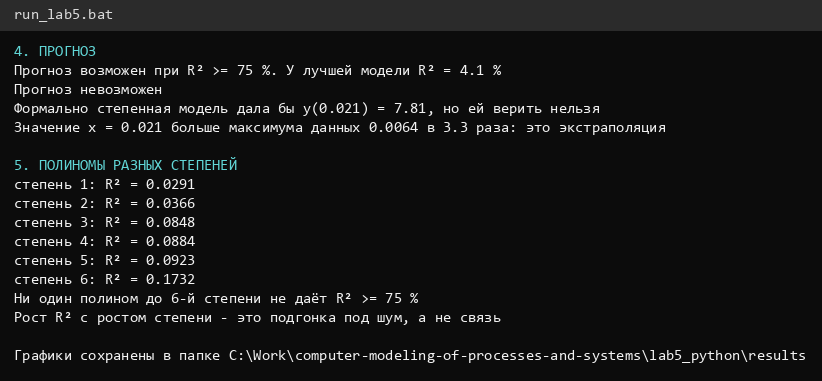
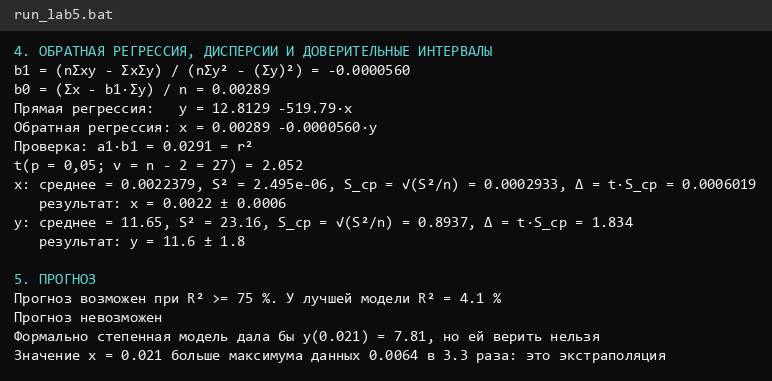
fix(labs4-5): follow manual for closeness scale, log R2 and inverse regression
- closeness of r by table 4 of the manual (0.3 / 0.5 / 0.7)
- lab 4: R2 of power and exponential models on ln y, as the manual and Excel do
- inverse regression, variances and Student confidence intervals with a plot
- hyperbola added to the nonlinear regression search

diff --git a/lab4_python/lab4.py b/lab4_python/lab4.py
@@ -47,26 +47,32 @@ models = {
 }
 r2 = {}
 for name, (equation, f) in models.items():
-    r2[name] = np.corrcoef(y, f(x))[0, 1] ** 2
+    if name in ("Степенная", "Экспоненциальная"):
+        r2[name] = np.corrcoef(np.log(y), np.log(f(x)))[0, 1] ** 2
+    else:
+        r2[name] = np.corrcoef(y, f(x))[0, 1] ** 2
     print(f"{name:17} {equation:38} R² = {r2[name]:.4f}")
+print("Для степенной и экспоненциальной моделей R² считается по ln y (как в методичке и в Excel)")
 best = max(r2, key=r2.get)
 print(f"Лучшая модель: {best}, R² = {r2[best]:.4f} ({r2[best] * 100:.1f} %)")
 
 print("\n3. ТЕСНОТА СВЯЗИ И СТАТИСТИЧЕСКАЯ ОЦЕНКА ЛИНЕЙНОЙ МОДЕЛИ")
 if abs(r) < 0.3:
+    closeness = "практически отсутствует"
+elif abs(r) < 0.5:
     closeness = "слабая"
 elif abs(r) < 0.7:
     closeness = "умеренная"
 else:
     closeness = "сильная"
+direction = "прямая" if r > 0 else "обратная"
+print(f"r = {r:.4f}: связь вероятностная, {direction}; теснота связи - {closeness} (таблица 4 методички)")
 R2 = r ** 2
 R2_adj = 1 - (1 - R2) * (n - 1) / (n - 2)
 F = R2 / (1 - R2) * (n - 2)
 F_critical = stats.f.ppf(0.95, 1, n - 2)
 p_value = stats.f.sf(F, 1, n - 2)
 std_error = np.sqrt(((y - (a0 + a1 * x)) ** 2).sum() / (n - 2))
-direction = "положительная" if r > 0 else "отрицательная"
-print(f"r = {r:.4f}: связь {closeness}, {direction}")
 print(f"R² = {R2:.4f}, скорректированный R² = {R2_adj:.4f}, стандартная ошибка = {std_error:.3f}")
 print(f"F = {F:.3f}, критическое F(0,05; 1; {n - 2}) = {F_critical:.3f}, p = {p_value:.4f}")
 if F > F_critical:
@@ -78,7 +84,29 @@ others = np.arange(n) != i_max
 r2_without = np.corrcoef(x[others], y[others])[0, 1] ** 2
 print(f"Без точки с наибольшим y ({y[i_max]} при x = {x[i_max]}): R² = {r2_without:.4f}")
 
-print("\n4. ПРОГНОЗ")
+print("\n4. ОБРАТНАЯ РЕГРЕССИЯ, ДИСПЕРСИИ И ДОВЕРИТЕЛЬНЫЕ ИНТЕРВАЛЫ")
+b1 = (n * sum_xy - sum_x * sum_y) / (n * sum_y2 - sum_y ** 2)
+b0 = (sum_x - b1 * sum_y) / n
+print(f"b1 = (nΣxy - ΣxΣy) / (nΣy² - (Σy)²) = {b1:.5f}")
+print(f"b0 = (Σx - b1·Σy) / n = {b0:.4f}")
+print(f"Прямая регрессия:   y = {a0:.4f} + {a1:.4f}·x")
+print(f"Обратная регрессия: x = {b0:.4f} + {b1:.5f}·y")
+print(f"Проверка: a1·b1 = {a1 * b1:.4f} = r²")
+t_student = stats.t.ppf(1 - 0.05 / 2, n - 2)
+print(f"t(p = 0,05; ν = n - 2 = {n - 2}) = {t_student:.3f}")
+intervals = {}
+for name, values in (("x", x), ("y", y)):
+    mean = values.mean()
+    S2 = ((values ** 2).sum() - values.sum() ** 2 / n) / (n - 1)
+    S_mean = np.sqrt(S2 / n)
+    delta = t_student * S_mean
+    digits = 2 if int(f"{delta:e}"[0]) <= 3 else 1
+    decimals = digits - 1 - int(np.floor(np.log10(delta)))
+    intervals[name] = (mean, S2, S_mean, delta, f"{mean:.{decimals}f} ± {delta:.{decimals}f}")
+    print(f"{name}: среднее = {mean:.4f}, S² = {S2:.6g}, S_ср = √(S²/n) = {S_mean:.4g}, Δ = t·S_ср = {delta:.4g}")
+    print(f"   результат: {name} = {intervals[name][4]}")
+
+print("\n5. ПРОГНОЗ")
 y_best = models[best][1](x_forecast)
 print(f"Прогноз возможен при R² >= 75 %. У лучшей модели R² = {r2[best] * 100:.1f} %")
 if r2[best] >= 0.75:
@@ -88,15 +116,20 @@ else:
     print(f"Формально {best.lower()} модель дала бы y({x_forecast}) = {y_best:.2f}, но ей верить нельзя")
 print(f"Значение x = {x_forecast} вне диапазона данных [{x.min()}; {x.max()}]: это экстраполяция")
 
-print("\n5. ПОЛИНОМЫ РАЗНЫХ СТЕПЕНЕЙ")
+print("\n6. ПОДБОР НЕЛИНЕЙНОЙ РЕГРЕССИИ С R² >= 75 %")
+z = 1 / x
+h1 = (n * (z * y).sum() - z.sum() * sum_y) / (n * (z ** 2).sum() - z.sum() ** 2)
+h0 = (sum_y - h1 * z.sum()) / n
+r2_hyper = np.corrcoef(y, h0 + h1 * z)[0, 1] ** 2
+print(f"Гипербола (z = 1/x): y = {h0:.3f} {h1:+.4f}/x, R² = {r2_hyper:.4f}")
 degrees = [1, 2, 3, 4, 5, 6]
 r2_poly = []
 for d in degrees:
     c = np.polyfit(x, y, d)
     r2_poly.append(np.corrcoef(y, np.polyval(c, x))[0, 1] ** 2)
-    print(f"степень {d}: R² = {r2_poly[-1]:.4f}")
-if max(r2_poly) < 0.75:
-    print("Ни один полином до 6-й степени не даёт R² >= 75 %")
+    print(f"полином степени {d}: R² = {r2_poly[-1]:.4f}")
+if max(r2_poly + [r2_hyper]) < 0.75:
+    print("Ни гипербола, ни полиномы до 6-й степени не дают R² >= 75 %")
     print("Рост R² с ростом степени - это подгонка под шум, а не связь")
 
 grid = np.linspace(x.min(), x.max(), 200)
@@ -131,5 +164,20 @@ plt.legend()
 plt.grid(alpha=0.3)
 fig.tight_layout()
 fig.savefig(folder / "02_poly_degree.png", dpi=150)
+plt.close(fig)
+
+y_grid = np.linspace(y.min(), y.max(), 200)
+fig = plt.figure(figsize=(7, 4.5))
+plt.scatter(x, y, color="black", s=14, label="эксперимент")
+plt.plot(grid, a0 + a1 * grid, color="red", label=f"прямая: y = {a0:.3f} + {a1:.3f}·x")
+plt.plot(b0 + b1 * y_grid, y_grid, color="blue", label=f"обратная: x = {b0:.4f} + {b1:.5f}·y")
+plt.scatter([x.mean()], [y.mean()], color="green", s=50, zorder=3, label="точка средних")
+plt.xlabel("Sr_воды, мг/л")
+plt.ylabel("Sr_волосы, мкг/г")
+plt.title("Прямая и обратная регрессия")
+plt.legend(fontsize=8)
+plt.grid(alpha=0.3)
+fig.tight_layout()
+fig.savefig(folder / "03_regression_lines.png", dpi=150)
 plt.close(fig)
 print(f"\nГрафики сохранены в папке {folder}")

diff --git a/lab5_python/lab5.py b/lab5_python/lab5.py
@@ -61,13 +61,15 @@ print(f"Лучшая модель: {best}, R² = {r2[best]:.4f} ({r2[best] * 100
 
 print("\n3. ТЕСНОТА СВЯЗИ И ЗНАЧИМОСТЬ ЛИНЕЙНОЙ МОДЕЛИ")
 if abs(r) < 0.3:
+    closeness = "практически отсутствует"
+elif abs(r) < 0.5:
     closeness = "слабая"
 elif abs(r) < 0.7:
     closeness = "умеренная"
 else:
     closeness = "сильная"
-direction = "положительная" if r > 0 else "отрицательная"
-print(f"r = {r:.4f}: связь {closeness}, {direction}")
+direction = "прямая" if r > 0 else "обратная"
+print(f"r = {r:.4f}: связь вероятностная, {direction}; теснота связи - {closeness} (таблица 4 методички)")
 F_linear = r ** 2 / (1 - r ** 2) * (n - 2)
 F_critical = stats.f.ppf(0.95, 1, n - 2)
 print(f"F = {F_linear:.3f}, критическое F(0,05; 1; {n - 2}) = {F_critical:.3f}")
@@ -80,7 +82,29 @@ others = np.arange(n) != i_max
 r2_without = np.corrcoef(x[others], y[others])[0, 1] ** 2
 print(f"Без точки с наибольшим y ({y[i_max]} при x = {x[i_max]}): R² = {r2_without:.4f}")
 
-print("\n4. ПРОГНОЗ")
+print("\n4. ОБРАТНАЯ РЕГРЕССИЯ, ДИСПЕРСИИ И ДОВЕРИТЕЛЬНЫЕ ИНТЕРВАЛЫ")
+b1 = (n * sum_xy - sum_x * sum_y) / (n * sum_y2 - sum_y ** 2)
+b0 = (sum_x - b1 * sum_y) / n
+print(f"b1 = (nΣxy - ΣxΣy) / (nΣy² - (Σy)²) = {b1:.7f}")
+print(f"b0 = (Σx - b1·Σy) / n = {b0:.5f}")
+print(f"Прямая регрессия:   y = {a0:.4f} {a1:+.2f}·x")
+print(f"Обратная регрессия: x = {b0:.5f} {b1:+.7f}·y")
+print(f"Проверка: a1·b1 = {a1 * b1:.4f} = r²")
+t_student = stats.t.ppf(1 - 0.05 / 2, n - 2)
+print(f"t(p = 0,05; ν = n - 2 = {n - 2}) = {t_student:.3f}")
+intervals = {}
+for name, values in (("x", x), ("y", y)):
+    mean = values.mean()
+    S2 = ((values ** 2).sum() - values.sum() ** 2 / n) / (n - 1)
+    S_mean = np.sqrt(S2 / n)
+    delta = t_student * S_mean
+    digits = 2 if int(f"{delta:e}"[0]) <= 3 else 1
+    decimals = digits - 1 - int(np.floor(np.log10(delta)))
+    intervals[name] = (mean, S2, S_mean, delta, f"{mean:.{decimals}f} ± {delta:.{decimals}f}")
+    print(f"{name}: среднее = {mean:.5g}, S² = {S2:.4g}, S_ср = √(S²/n) = {S_mean:.4g}, Δ = t·S_ср = {delta:.4g}")
+    print(f"   результат: {name} = {intervals[name][4]}")
+
+print("\n5. ПРОГНОЗ")
 y_best = models[best][1](x_forecast)
 print(f"Прогноз возможен при R² >= 75 %. У лучшей модели R² = {r2[best] * 100:.1f} %")
 if r2[best] >= 0.75:
@@ -90,15 +114,20 @@ else:
     print(f"Формально {best.lower()} модель дала бы y({x_forecast}) = {y_best:.2f}, но ей верить нельзя")
 print(f"Значение x = {x_forecast} больше максимума данных {x.max()} в {x_forecast / x.max():.1f} раза: это экстраполяция")
 
-print("\n5. ПОЛИНОМЫ РАЗНЫХ СТЕПЕНЕЙ")
+print("\n6. ПОДБОР НЕЛИНЕЙНОЙ РЕГРЕССИИ С R² >= 75 %")
+z = 1 / x
+h1 = (n * (z * y).sum() - z.sum() * sum_y) / (n * (z ** 2).sum() - z.sum() ** 2)
+h0 = (sum_y - h1 * z.sum()) / n
+r2_hyper = np.corrcoef(y, h0 + h1 * z)[0, 1] ** 2
+print(f"Гипербола (z = 1/x): y = {h0:.3f} {h1:+.5f}/x, R² = {r2_hyper:.4f}")
 degrees = [1, 2, 3, 4, 5, 6]
 r2_poly = []
 for d in degrees:
     c = np.polyfit(x, y, d)
     r2_poly.append(np.corrcoef(y, np.polyval(c, x))[0, 1] ** 2)
-    print(f"степень {d}: R² = {r2_poly[-1]:.4f}")
-if max(r2_poly) < 0.75:
-    print("Ни один полином до 6-й степени не даёт R² >= 75 %")
+    print(f"полином степени {d}: R² = {r2_poly[-1]:.4f}")
+if max(r2_poly + [r2_hyper]) < 0.75:
+    print("Ни гипербола, ни полиномы до 6-й степени не дают R² >= 75 %")
     print("Рост R² с ростом степени - это подгонка под шум, а не связь")
 
 grid = np.linspace(x.min(), x.max(), 200)
@@ -126,5 +155,20 @@ plt.legend()
 plt.grid(alpha=0.3)
 fig.tight_layout()
 fig.savefig(folder / "02_poly_degree.png", dpi=150)
+plt.close(fig)
+
+y_grid = np.linspace(y.min(), y.max(), 200)
+fig = plt.figure(figsize=(7, 4.5))
+plt.scatter(x, y, color="black", s=14, label="эксперимент")
+plt.plot(grid, a0 + a1 * grid, color="red", label=f"прямая: y = {a0:.3f} {a1:+.2f}·x")
+plt.plot(b0 + b1 * y_grid, y_grid, color="blue", label=f"обратная: x = {b0:.5f} {b1:+.7f}·y")
+plt.scatter([x.mean()], [y.mean()], color="green", s=50, zorder=3, label="точка средних")
+plt.xlabel("Cu_воды, мг/л")
+plt.ylabel("Cu_волосы, мкг/г")
+plt.title("Прямая и обратная регрессия")
+plt.legend(fontsize=8)
+plt.grid(alpha=0.3)
+fig.tight_layout()
+fig.savefig(folder / "03_regression_lines.png", dpi=150)
 plt.close(fig)
 print(f"\nГрафики сохранены в папке {folder}")

diff --git a/lab5_python/README.md b/lab5_python/README.md
@@ -4,4 +4,4 @@
 
 Запуск: двойной щелчок по `run_lab5.bat`. Он ставит библиотеки (numpy, scipy, matplotlib) и запускает `lab5.py`.
 
-Вместо пакета Statistica расчет выполнен в Python: линейная, полиномиальная и степенная модели, для каждой R, R², скорректированный R², F, p и стандартная ошибка. Графики сохраняются в папку `results`.
+Вместо пакета Statistica расчет выполнен в Python: линейная, полиномиальная и степенная модели, для каждой R, R², скорректированный R², F, p и стандартная ошибка; теснота связи по таблице 4 методички, обратная регрессия с доверительными интервалами, гипербола и полиномы. Графики сохраняются в папку `results`.

diff --git a/lab4_python/README.md b/lab4_python/README.md
@@ -4,4 +4,4 @@
 
 Запуск: двойной щелчок по `run_lab4.bat`. Он ставит библиотеки (numpy, scipy, matplotlib) и запускает `lab4.py`.
 
-Программа печатает ручной расчет линейной регрессии, пять моделей с R², статистическую оценку, вывод о прогнозе и полиномы разных степеней. Графики сохраняются в папку `results`.
+Программа печатает ручной расчет линейной регрессии, пять моделей с R², тесноту связи по таблице 4 методички и статистическую оценку, обратную регрессию с доверительными интервалами, вывод о прогнозе, гиперболу и полиномы разных степеней. Графики сохраняются в папку `results`.
